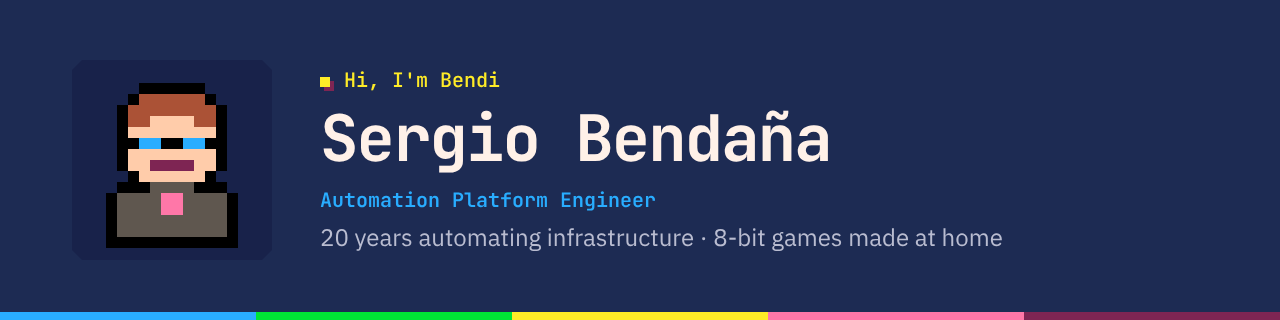
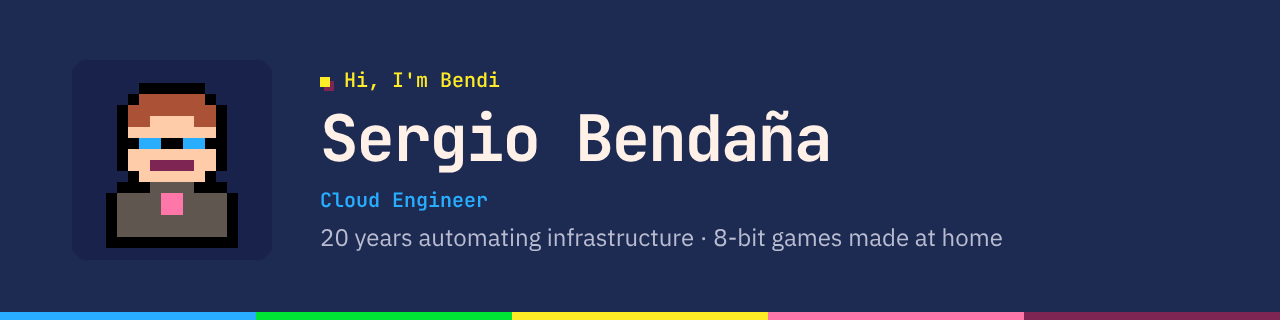
Header: Cloud Engineer

Changed region(s): [[0.25, 0.5938, 0.5, 0.6562]]

diff --git a/README.es.md b/README.es.md
@@ -1,6 +1,6 @@
 <div align="center">
 
-<a href="https://bendi.dev/"><img src="assets/header.png" alt="Sergio Bendaña · Automation Platform Engineer" width="100%"></a>
+<a href="https://bendi.dev/"><img src="assets/header.png" alt="Sergio Bendaña · Cloud Engineer" width="100%"></a>
 
 <a href="https://bendi.dev/"><img src="https://readme-typing-svg.demolab.com?font=JetBrains+Mono&weight=600&size=20&duration=2800&pause=900&color=29ADFF&center=true&vCenter=true&width=480&lines=Automation+Platform+Engineer;Infraestructura+como+c%C3%B3digo+%E2%80%A2+Terraform+%E2%80%A2+Ansible;Blockchain+y+Web3+%E2%80%A2+Solidity+%E2%80%A2+IPFS;Juegos+de+8+bits+para+el+navegador" alt="20 años automatizando infraestructura · Máster en Blockchain · Juegos de 8 bits hechos en casa con mis hijas."></a>
 

diff --git a/README.md b/README.md
@@ -1,6 +1,6 @@
 <div align="center">
 
-<a href="https://bendi.dev/"><img src="assets/header.png" alt="Sergio Bendaña · Automation Platform Engineer" width="100%"></a>
+<a href="https://bendi.dev/"><img src="assets/header.png" alt="Sergio Bendaña · Cloud Engineer" width="100%"></a>
 
 <a href="https://bendi.dev/"><img src="https://readme-typing-svg.demolab.com?font=JetBrains+Mono&weight=600&size=20&duration=2800&pause=900&color=29ADFF&center=true&vCenter=true&width=480&lines=Automation+Platform+Engineer;Infrastructure+as+Code+%E2%80%A2+Terraform+%E2%80%A2+Ansible;Blockchain+%26+Web3+%E2%80%A2+Solidity+%E2%80%A2+IPFS;8-bit+games+for+the+browser" alt="20 years automating infrastructure · Master's in Blockchain · 8-bit games made at home with my daughters."></a>
 
